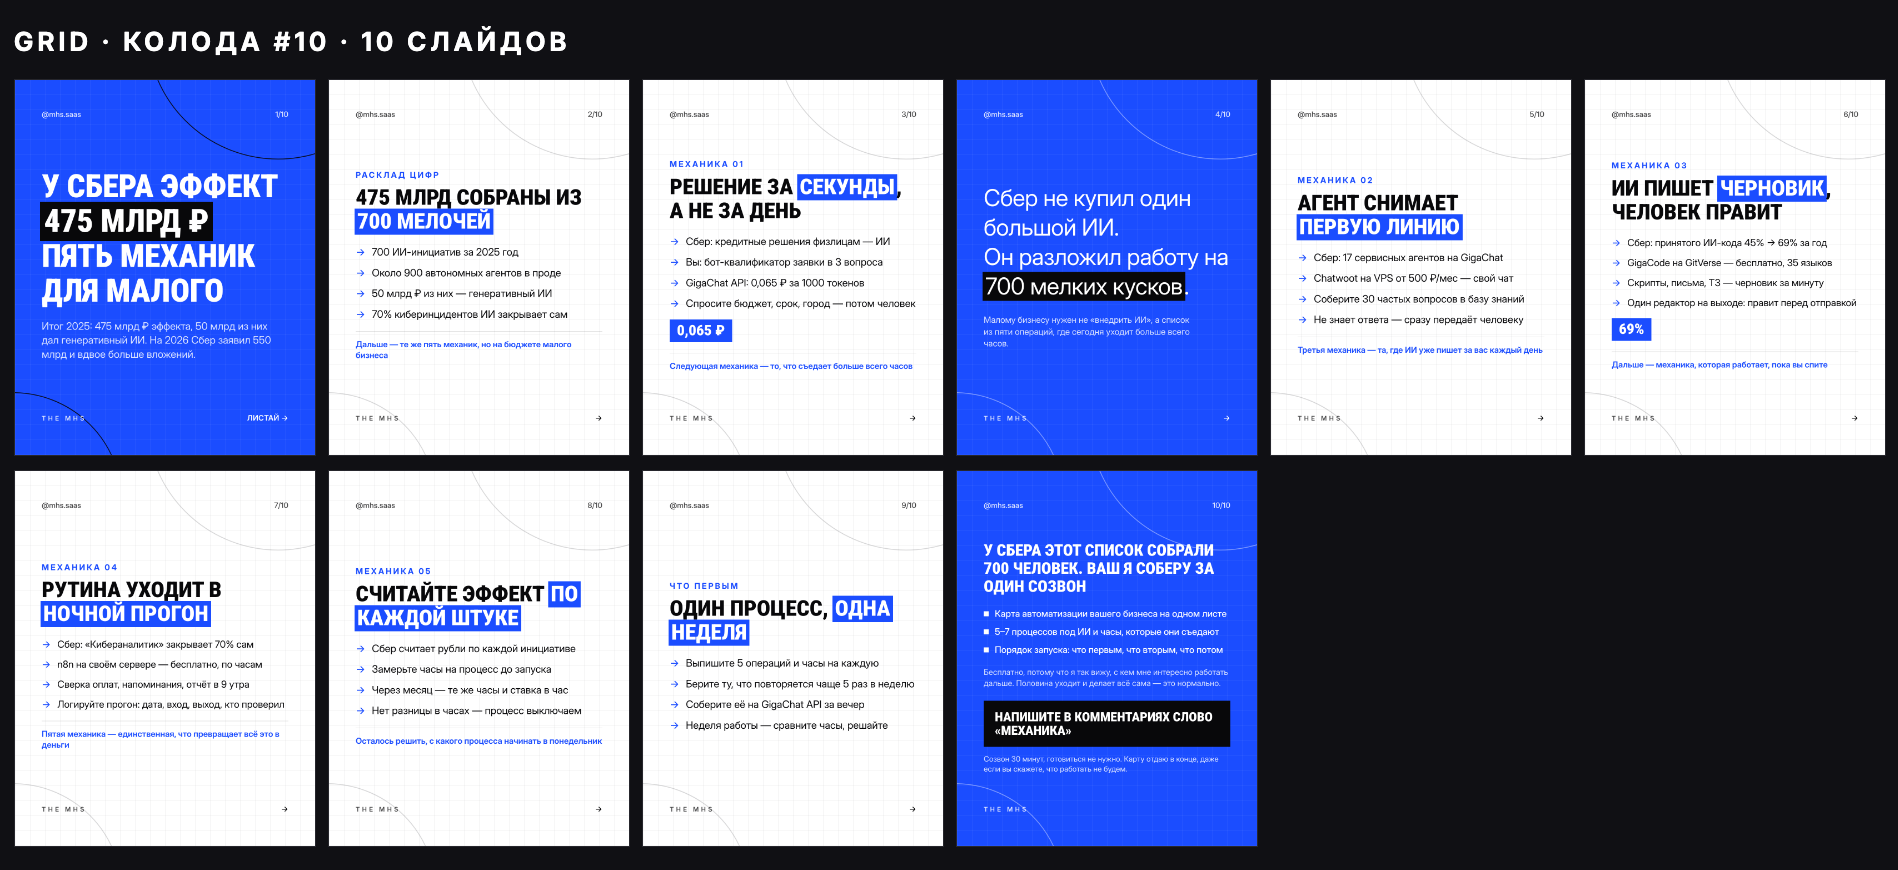
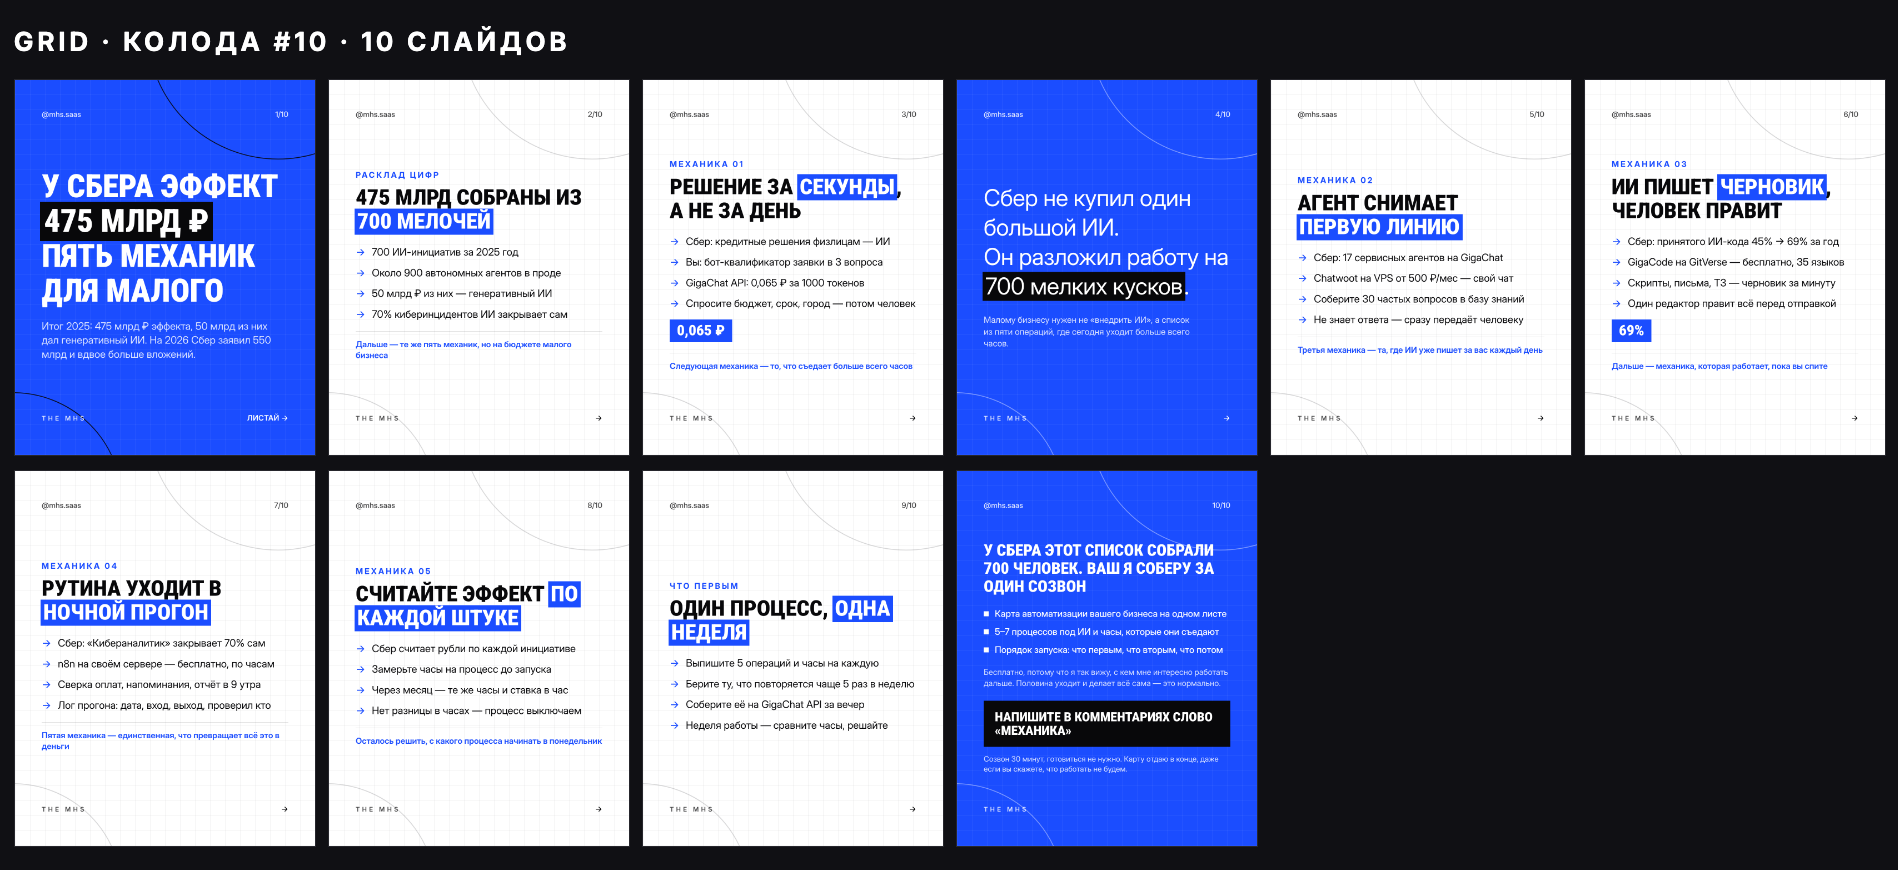
Ссылка на репозиторий не теряется в описании на YouTube

Changed region(s): [[0.8393, 0.1862, 0.9636, 0.4345], [0.0311, 0.6517, 0.1554, 0.869]]

diff --git a/src/youtube.js b/src/youtube.js
@@ -147,9 +147,22 @@ function buildQueue() {
     .map((item) => {
       const file = path.join(S.reels, `${S.prefix}-${pad3(item.id)}.mp4`);
       const captionFile = path.join(S.reels, `${S.prefix}-${pad3(item.id)}.txt`);
+      // В облаке рядом с mp4 подписи нет — собираем её из данных так же,
+      // как это делает сборщик роликов, вместе со ссылкой на репозиторий.
       const description = fs.existsSync(captionFile)
         ? fs.readFileSync(captionFile, 'utf8').trim()
-        : [item.title, '', item.prompt || item.description].join('\n').trim();
+        : [
+            item.title,
+            '',
+            item.headline ? item.headline.replace(/\n/g, ' ') : '',
+            item.headline ? '' : null,
+            item.prompt || item.description,
+            item.repo ? '' : null,
+            item.repo ? `github.com/${item.repo}` : null,
+          ]
+            .filter((x) => x !== null)
+            .join('\n')
+            .trim();
       return { id: item.id, file, exists: fs.existsSync(file), title: S.title(item), description };
     });
 }
